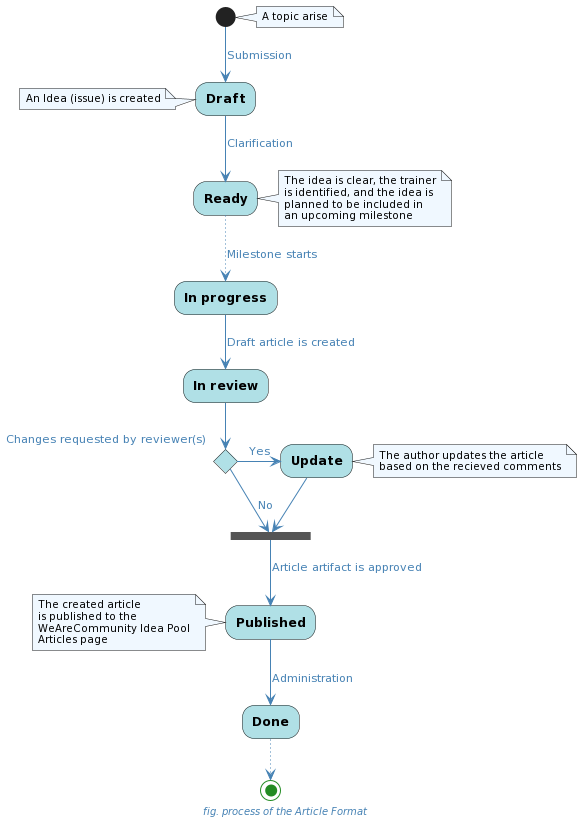
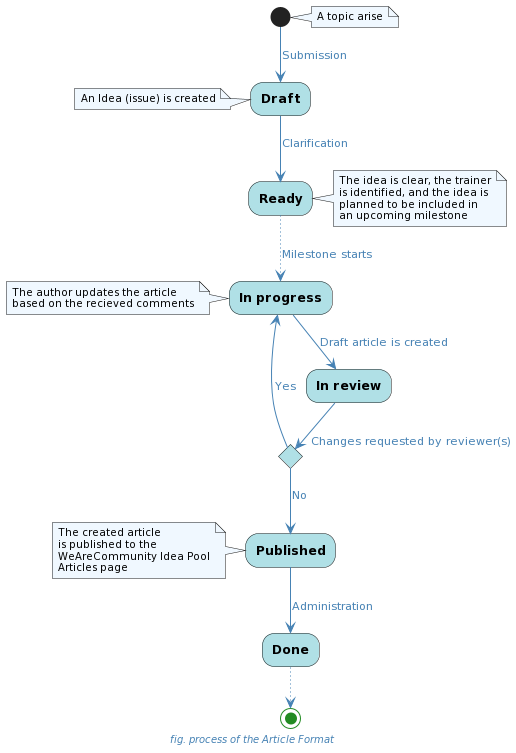
update based on comments

diff --git a/docs/VALUE_STREAM.md b/docs/VALUE_STREAM.md
@@ -162,11 +162,9 @@ The **article** format provides the opportunity to the author to write a profess
 
 The main process of this format:
 
-![Workshop-Process](./uml/process-placeholder.svg).
+![Workshop-Process](./uml/process-placeholder.svg)
 
-As the result of an article, the following artifacts might be created:
-
-- An [article](#article) to describe the topic.
+As the result an article artifact will be created.
 
 For more information about the format, please turn to [Milan Horvath][milan].
 
@@ -176,7 +174,7 @@ In the **TBD** format, TBD, to cover the idea.
 
 The main process of this format:
 
-![Workshop-Process](./uml/process-placeholder.svg).
+![Workshop-Process](./uml/process-placeholder.svg)
 
 As the result of a TBD, the following artifacts might be created:
 
@@ -190,7 +188,7 @@ In the **TBD** format, TBD, to cover the idea.
 
 The main process of this format:
 
-![Workshop-Process](./uml/process-placeholder.svg).
+![Workshop-Process](./uml/process-placeholder.svg)
 
 As the result of a TBD, the following artifacts might be created:
 
@@ -208,7 +206,7 @@ example, [GherKing][gherking].
 
 The main process of this format:
 
-![Workshop-Process](./uml/format_project.svg).
+![Workshop-Process](./uml/format_project.svg)
 
 As the result of a project, the following artifacts might be created:
 
@@ -227,7 +225,7 @@ questions related to it.
 
 The main process of this format:
 
-![Webinar-Process](./uml/format_webinar.svg).
+![Webinar-Process](./uml/format_webinar.svg)
 
 As the result of a webinar, the following artifacts might be created:
 
@@ -244,7 +242,7 @@ In the **workshop** format, a primarily offline event is organized, to cover the
 
 The main process of this format:
 
-![Workshop-Process](./uml/process-placeholder.svg).
+![Workshop-Process](./uml/process-placeholder.svg)
 
 As the result of a workshop, the following artifacts might be created:
 
